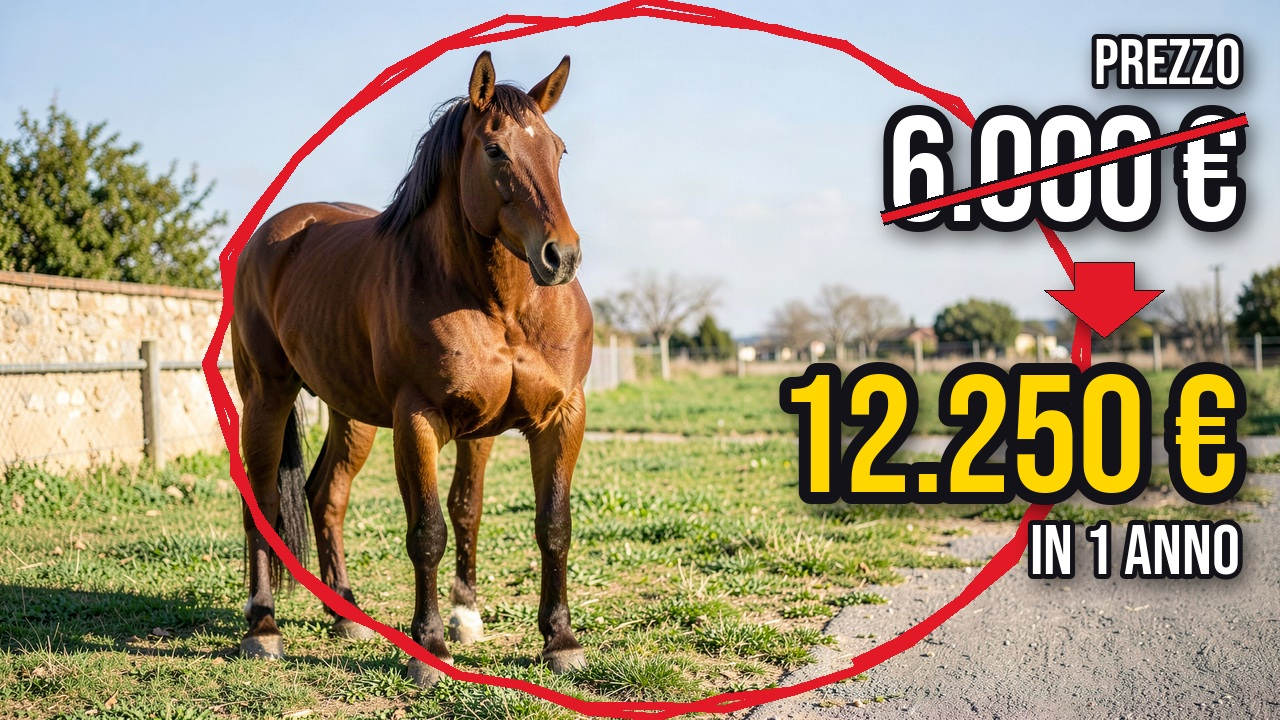
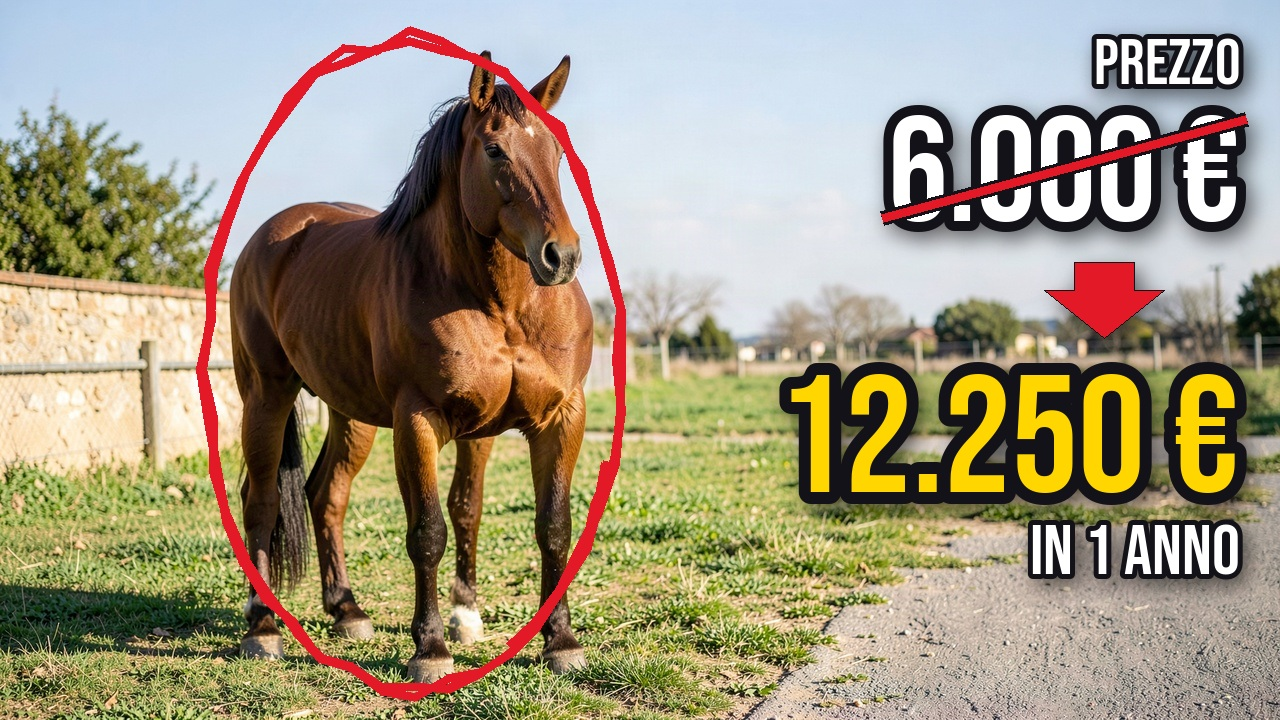
Costo Vero: cerchio sempre nella meta' del soggetto; copertina cavallo
Claude-Session: https://claude.ai/code/session_013ApoDmMcM7xnohpDpgQ76W

diff --git a/strumenti/copertina_possesso_foto.py b/strumenti/copertina_possesso_foto.py
@@ -79,6 +79,9 @@ def crea(p):
     im = (p.get('immagine') or foto(p['prodotto'], sx=not scritte_sx)).convert('RGBA')
     d0 = ImageDraw.Draw(im)
     box = p.get('box') or (box_soggetto(im, p.get('prodotto')) if E('ANTHROPIC_API_KEY') else None) or ((730, 230, 1250, 640) if scritte_sx else (40, 200, 560, 610))
+    # 13 nov: il cerchio resta nella meta' del soggetto e dentro l'immagine (mai sopra le scritte o tagliato dal bordo)
+    box = (max(20, box[0]), max(20, box[1]), min(W - 20, box[2]), min(H - 20, box[3]))
+    box = (box[0], box[1], min(box[2], 740), box[3]) if scritte_sx is False else (max(box[0], 540), box[1], box[2], box[3])
     cerchio(d0, box, seme=int(p.get('seme') or 3))   # il cerchio stretto intorno al soggetto
     lay = Image.new('RGBA', im.size, (0, 0, 0, 0)); d = ImageDraw.Draw(lay)
     prezzo, vero, anni = float(p.get('prezzo') or 0), float(p['costo_vero']), int(p.get('anni') or 0)
